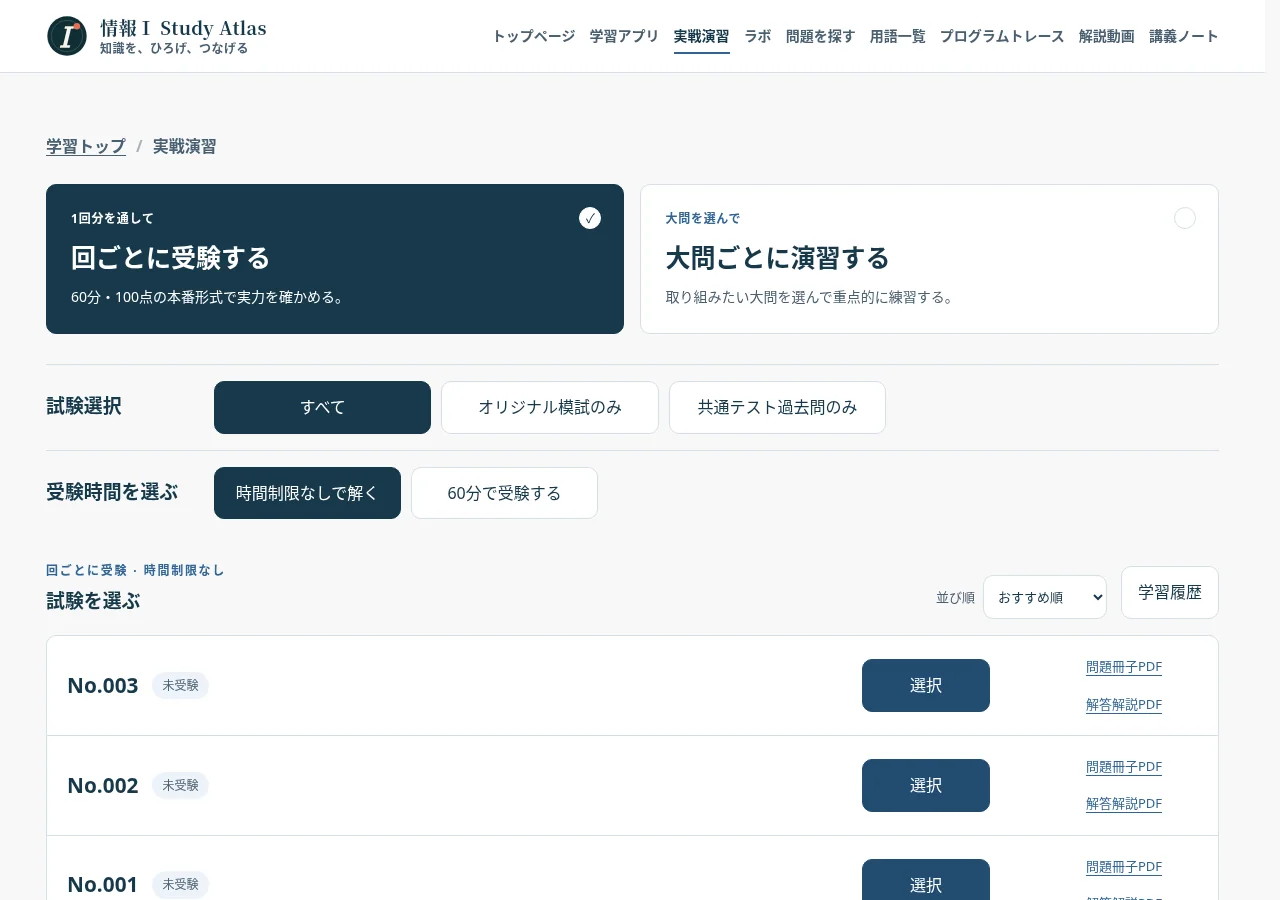
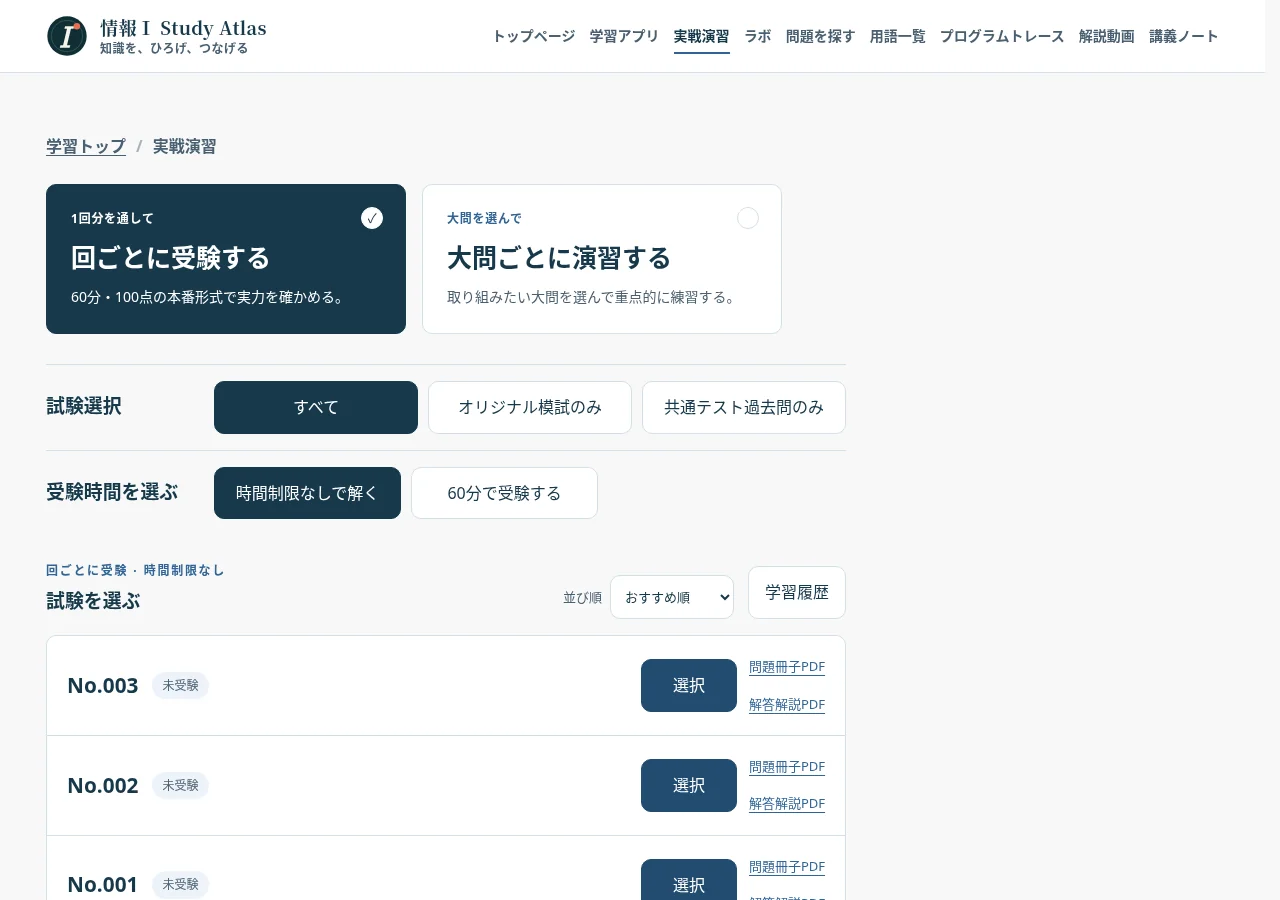
用語検索と試験一覧が広がりすぎないようにする

diff --git a/assets/term-page.css b/assets/term-page.css
@@ -285,11 +285,11 @@
 }
 
 /* Shared learning controls; the static list remains usable without JavaScript. */
-.term-controls { margin: 0 0 20px; padding: clamp(14px, 3vw, 24px); border: 1px solid var(--atlas-line); border-radius: var(--atlas-radius); background: var(--atlas-surface); }
+.term-controls { max-inline-size: var(--atlas-filter-panel); margin: 0 0 20px; padding: clamp(14px, 3vw, 24px); border: 1px solid var(--atlas-line); border-radius: var(--atlas-radius); background: var(--atlas-surface); }
 .term-controls fieldset { display: flex; flex-wrap: wrap; gap: 8px 18px; margin: 0 0 16px; padding: 0; border: 0; }
 .term-controls label { display: inline-flex; align-items: center; gap: 6px; min-height: 44px; cursor: pointer; font-size: .9rem; }
 .term-controls .term-search-label { display: block; min-height: 0; margin-bottom: 6px; font-weight: 700; }
-#term-search { display: block; width: 100%; min-height: 48px; padding: 12px 16px; border: 1px solid var(--atlas-muted); border-radius: var(--atlas-radius); color: var(--ink); background: var(--white); font: inherit; font-size: 1rem; }
+#term-search { display: block; width: 100%; max-inline-size: var(--atlas-search-field); min-height: 48px; padding: 12px 16px; border: 1px solid var(--atlas-muted); border-radius: var(--atlas-radius); color: var(--ink); background: var(--white); font: inherit; font-size: 1rem; }
 .term-data-message, .term-storage-message, .term-result-count { color: var(--ink-soft); font-size: .85rem; }
 .term-data-message:has(span:empty):has(button[hidden]), .term-storage-message:empty { display: none; }
 .term-data-message button { margin: 6px; min-height: 44px; padding: 6px 12px; font: inherit; color: var(--ink); background: var(--white); border: 1px solid var(--line); border-radius: 4px; cursor: pointer; }
@@ -303,7 +303,7 @@
 .term-search-excerpt { grid-column: 1 / -1; margin: -2px 0 14px; color: var(--ink-soft); font-size: .8rem; line-height: 1.7; overflow-wrap: anywhere; }
 .term-page-state { display: flex; align-items: center; gap: 12px; margin-top: 12px; }
 
-.term-controls fieldset:first-child { display: grid; grid-template-columns: 1fr 1fr; gap: 4px; padding: 4px; border-radius: 12px; background: var(--paper-deep); margin-bottom: 22px; }
+.term-controls fieldset:first-child { max-inline-size: 22rem; display: grid; grid-template-columns: 1fr 1fr; gap: 4px; padding: 4px; border-radius: 12px; background: var(--paper-deep); margin-bottom: 22px; }
 .term-controls fieldset:first-child label { justify-content: center; border: 0; border-radius: 9px; font-weight: 700; padding: 10px 8px; }
 .term-controls fieldset:first-child label:has(:checked) {
   background: var(--atlas-selected, #18394b);

diff --git a/mock-exams/app.css b/mock-exams/app.css
@@ -1572,5 +1572,17 @@ button.column-clear {
 
 @media screen and (min-width: 64rem) {
   #app { padding-inline: 0; }
-  .catalog-page, .history-page, .results { max-width: none; }
+  .catalog-page {
+    max-width: 50rem;
+    margin-inline: 0 auto;
+  }
+  .mode-choices { max-inline-size: 46rem; }
+  .catalog-exam > .exam-card-actions {
+    display: flex;
+    align-items: center;
+    gap: .75rem;
+  }
+  .catalog-exam .exam-card-actions > button { padding-inline: .75rem; }
+  .catalog-exam [data-start] { min-inline-size: 6rem; }
+  .history-page, .results { max-width: none; }
 }

diff --git a/assets/atlas-tokens.css b/assets/atlas-tokens.css
@@ -24,6 +24,8 @@
   --atlas-title: Georgia, "Hiragino Mincho ProN", "Yu Mincho", "Noto Serif CJK JP", serif;
   --atlas-gutter: clamp(1rem, 3.6vw, 3rem);
   --atlas-page: 74rem;
+  --atlas-filter-panel: 44rem;
+  --atlas-search-field: 34rem;
   --atlas-frame: min(var(--atlas-page), calc(100% - 2 * var(--atlas-gutter)));
 }
 

diff --git a/docs/DESIGN.md b/docs/DESIGN.md
@@ -33,7 +33,7 @@
 
 通常の遷移はリンク、状態変更はボタンを使う。主要なリンク型ボタンには既存の button と button-primary クラス、補助操作には button と button-ghost を組み合わせる。ナビゲーションでは aria-current、押下状態では aria-pressed、開閉には details と summary を使う。状態は文字・記号・形でも判別できるようにする。フォームにはラベルを付け、入力文字は原則1rem、押しやすい高さは44pxを目安とする。
 
-PCの外枠は --atlas-frame で揃える。左右の余白は --atlas-gutter で確保し、最大幅は74remとする。長文には本文の読み幅を設定できる。
+PCの外枠は --atlas-frame で揃える。左右の余白は --atlas-gutter で確保し、最大幅は74remとする。長文には本文の読み幅を設定できる。検索パネルと入力・検索ボタンの並びには rem 単位の上限を設け、狭い画面では利用できる幅に収める。実戦演習の試験選択一覧は読み取りやすい幅で左揃えにする。
 
 カードや入力欄は --atlas-radius（10px）、境界は基本1px。カード間はおおむね12〜20px、セクション間は内容に応じて32〜64pxを使う。本文の区切りは細い罫線と見出しを基本とし、影を使う場合は --atlas-shadow を選ぶ。
 
